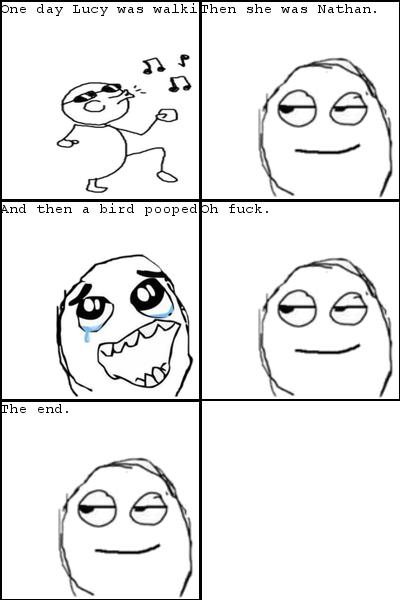
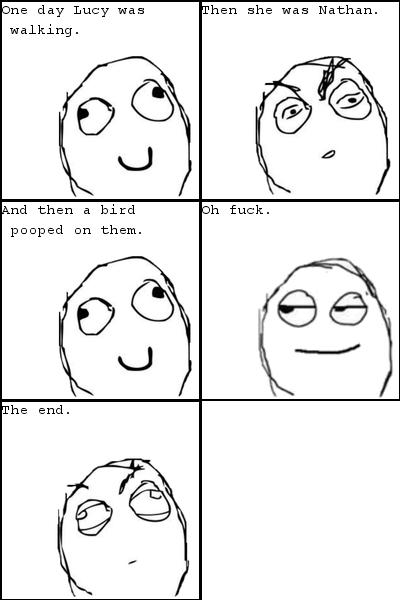
string wrapping

diff --git a/server/image.py b/server/image.py
@@ -36,7 +36,21 @@ for i in range(len(values)):
     text = sentences[i]
     textList = []
     counter = 0
-    draw.text((0,0), sentences[i], (0,0,0), font=font)
+    while(counter < len(text)):
+        edge = counter + 20
+        if(edge < len(text)):
+            while(text[edge] != " "):
+                edge = edge - 1
+            textList.append(text[counter:edge])
+            counter = edge
+        else:
+            textList.append(text[counter:])
+            break
+    x = 1
+    y = 1
+    for i in range(len(textList)):
+        draw.text((x,y), textList[i], (0,0,0), font=font)
+        y  = y + 20
     draw.rectangle(((1,1),(199,199)), outline = "black")
     draw.rectangle(((0,0),(200,200)), outline = "black")
     imageList.append(background)
